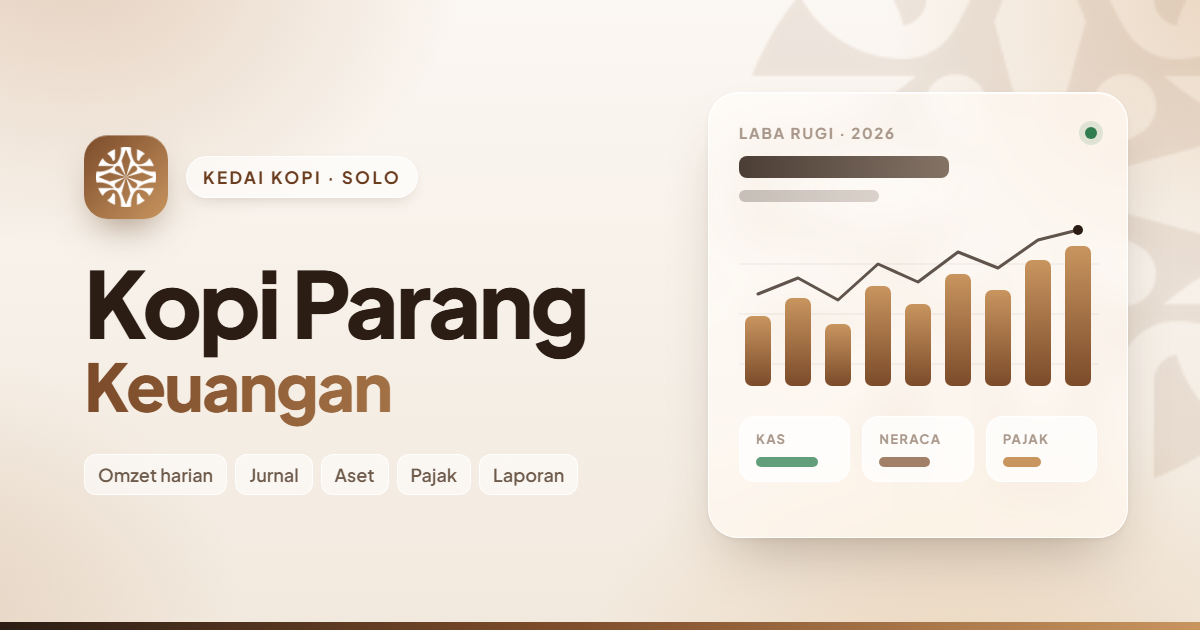
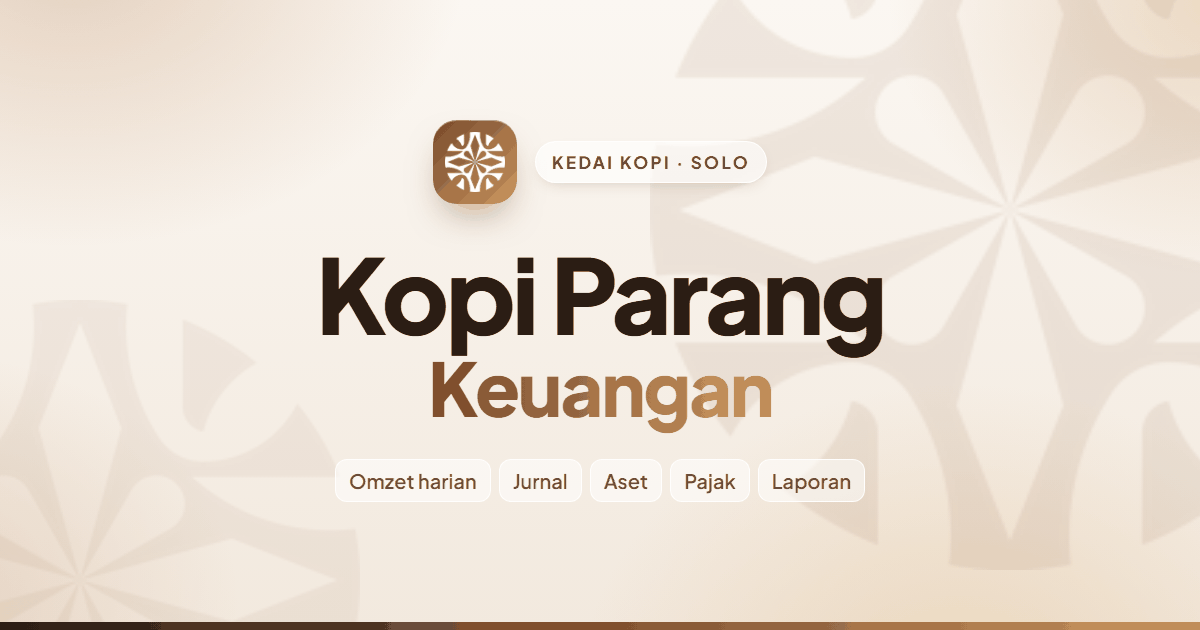
update: cleaning preview link

Changed region(s): [[0.0617, 0.3317, 0.9558, 0.9048], [0.4625, 0.1206, 0.9558, 0.3317], [0.0617, 0.181, 0.4317, 0.3921]]

diff --git a/frontend/index.html b/frontend/index.html
@@ -13,16 +13,16 @@
     <meta property="og:title" content="Kopi Parang Keuangan" />
     <meta property="og:description" content="Pembukuan Kopi Parang dalam satu tempat: omzet harian, jurnal, aset tetap, pajak, dan laporan keuangan." />
     <meta property="og:url" content="https://kopi-parang-keuangan-fe.vercel.app/" />
-    <meta property="og:image" content="https://kopi-parang-keuangan-fe.vercel.app/og-image.png?v=2" />
-    <meta property="og:image:secure_url" content="https://kopi-parang-keuangan-fe.vercel.app/og-image.png?v=2" />
+    <meta property="og:image" content="https://kopi-parang-keuangan-fe.vercel.app/og-image.png?v=3" />
+    <meta property="og:image:secure_url" content="https://kopi-parang-keuangan-fe.vercel.app/og-image.png?v=3" />
     <meta property="og:image:type" content="image/png" />
     <meta property="og:image:width" content="1200" />
     <meta property="og:image:height" content="630" />
-    <meta property="og:image:alt" content="Logo Kopi Parang dan tulisan Kopi Parang Keuangan di atas latar krim-karamel, dengan panel grafik laba rugi" />
+    <meta property="og:image:alt" content="Logo Kopi Parang dan tulisan Kopi Parang Keuangan di atas latar krim-karamel" />
     <meta name="twitter:card" content="summary_large_image" />
     <meta name="twitter:title" content="Kopi Parang Keuangan" />
     <meta name="twitter:description" content="Pembukuan Kopi Parang dalam satu tempat: omzet harian, jurnal, aset tetap, pajak, dan laporan keuangan." />
-    <meta name="twitter:image" content="https://kopi-parang-keuangan-fe.vercel.app/og-image.png?v=2" />
+    <meta name="twitter:image" content="https://kopi-parang-keuangan-fe.vercel.app/og-image.png?v=3" />
     <meta name="twitter:image:alt" content="Kopi Parang Keuangan" />
     <link rel="preconnect" href="https://fonts.googleapis.com" />
     <link rel="preconnect" href="https://fonts.gstatic.com" crossorigin />
